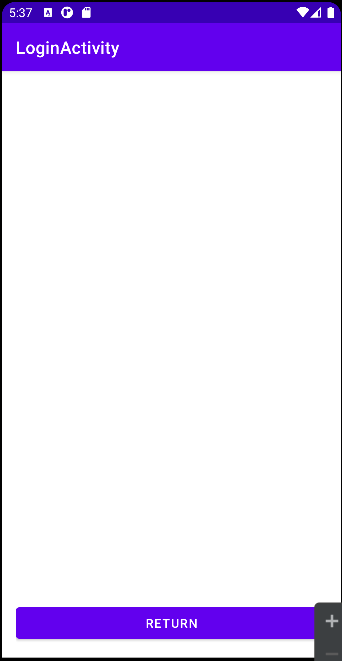
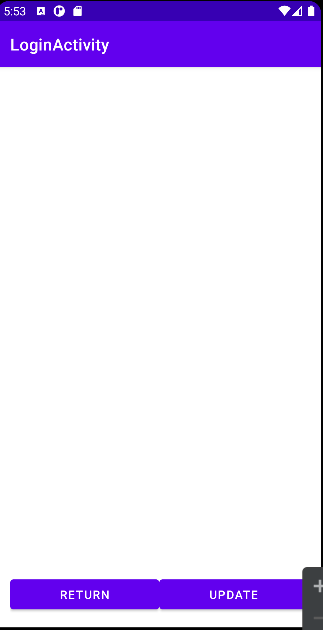
update

Changed region(s): [[0.0, 0.0, 1.0, 1.0]]

diff --git a/APP/app/src/main/java/com/example/bankaccounts/AddEditAccountActivity.java b/APP/app/src/main/java/com/example/bankaccounts/AddEditAccountActivity.java
@@ -17,6 +17,7 @@ public class AddEditAccountActivity extends AppCompatActivity {
     private TextView textIban;
     private TextView textCurrency;
     private Button buttonReturn;
+    private Button buttonUpdate;
 
     private Accounts account;
 
@@ -30,19 +31,33 @@ public class AddEditAccountActivity extends AppCompatActivity {
         this.textCurrency = (TextView)this.findViewById(R.id.Text_currency);
 
         this.buttonReturn = (Button)findViewById(R.id.button_return);
+        this.buttonUpdate = (Button)findViewById(R.id.button_update);
 
         this.buttonReturn.setOnClickListener(new View.OnClickListener() {
             public void onClick(View v)  {
-                buttonCancelClicked();
+                buttonDeleteClicked();
+            }
+        });
+        this.buttonUpdate.setOnClickListener(new View.OnClickListener(){
+                public void onClick (View v){
+                buttonUpdateClicked();
             }
         });
     }
 
     // User Click on the Cancel button.
-    public void buttonCancelClicked()  {
+    public void buttonDeleteClicked()  {
         // Do nothing, back MainActivity.
         this.onBackPressed();
         setContentView(R.layout.activity_login);
+    }
+
+    // User Click on the Cancel button.
+    public void buttonUpdateClicked()  {
+        // Do nothing, back MainActivity.
+        this.onBackPressed();
+        //call the syncAccount function
+        setContentView(R.layout.activity_add_edit_account);
     }
 
     // When completed this Activity,
